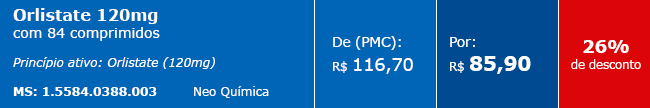
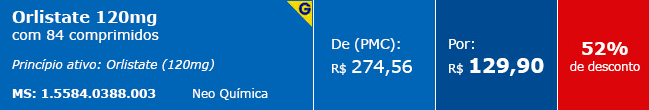
asda

diff --git a/buscarid/email-mkt-araujodetona-170317.html b/buscarid/email-mkt-araujodetona-170317.html
@@ -633,6 +633,17 @@
 	</table>
 	<br />
 
+	<tr>
+			<td width="650" align="center" valign="top">
+				<a href="http://www.araujo.com.br/orlistate-120mg-neo-quimica-generico/p?utm_source=ALLINMAIL&utm_medium=email&utm_campaign=email-marketing_araujodetona_17032017&utm_term=Orlistate-120mg#sku=775800" target="_blank">
+				<img src="https://qd-araujo-email.github.io/buscarid/imagens/201703-semConsumidor/texto-legal-tab-medicamento.jpg" width="667" height="139" border="0" alt="" style="display:block;" />
+				</a>
+			</td>
+		</tr>
+
+
+	
+
 
 	
 
